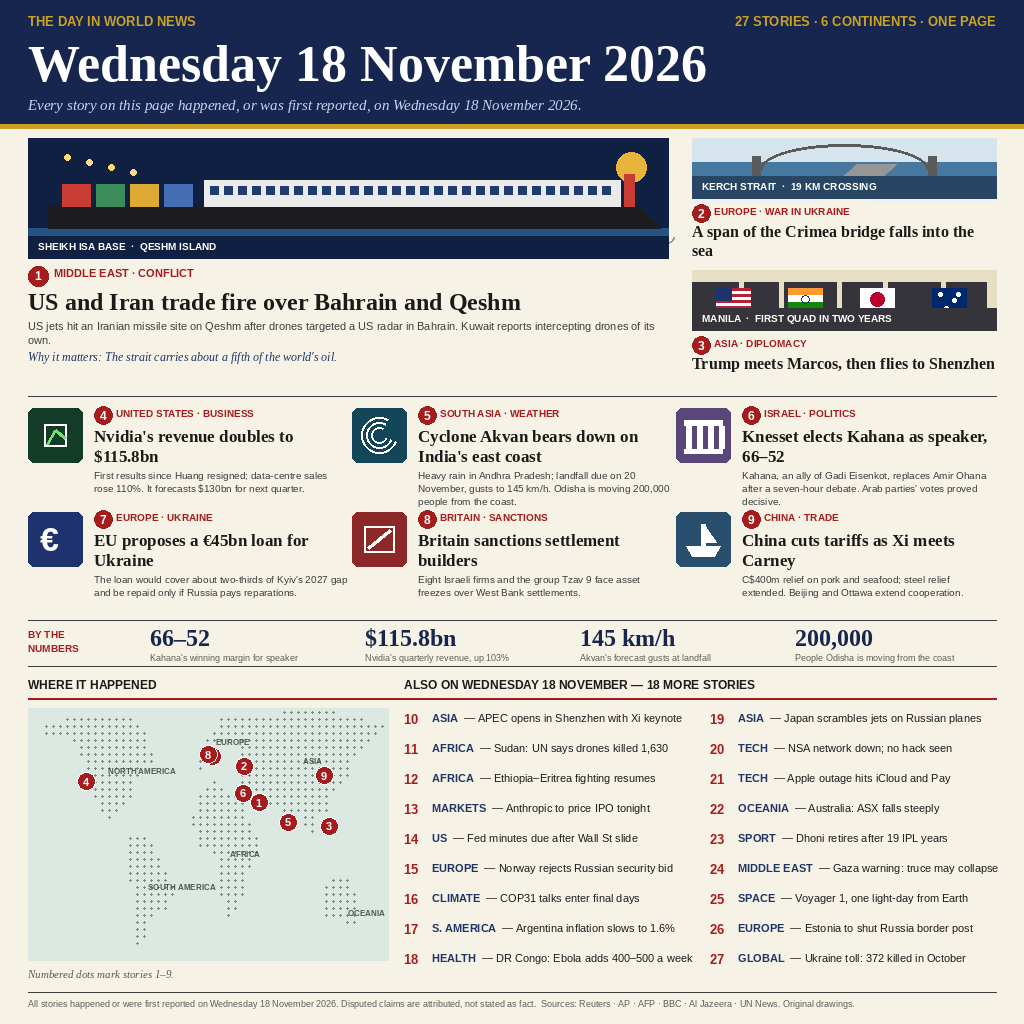
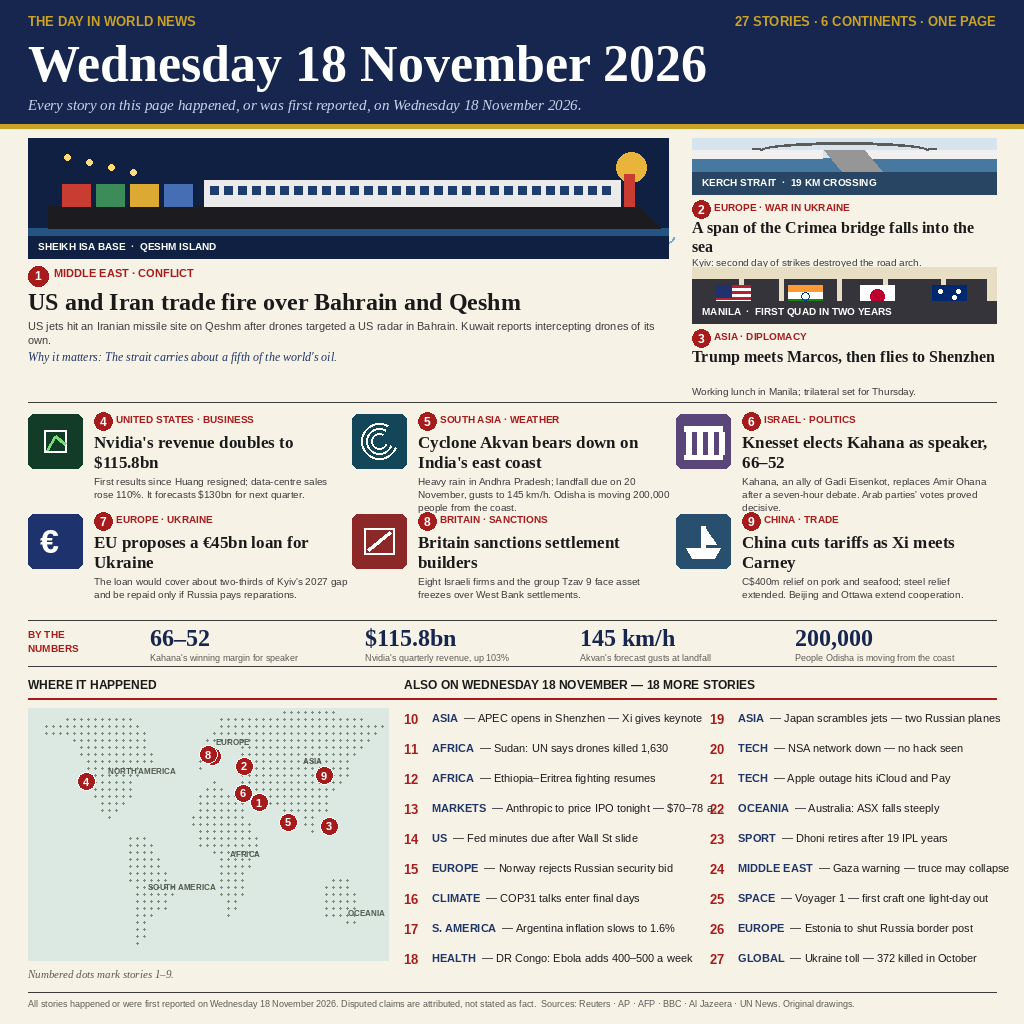
v4: restore right-hero decks, two-part briefs with facts

diff --git a/generate_frontpage.py b/generate_frontpage.py
@@ -71,14 +71,14 @@ def art_hormuz(d, x, y, w, h):
 def art_kerch(d, x, y, w, h):
     d.rectangle([x, y, x + w, y + h], fill=(214, 228, 238))
     d.rectangle([x, y + h - 36, x + w, y + h], fill=(70, 120, 160))
-    # bridge towers and deck, with a gap in the middle
-    d.rectangle([x + 60, y + 18, x + 68, y + 62], fill=(90, 90, 90))
-    d.rectangle([x + w - 68, y + 18, x + w - 60, y + 62], fill=(90, 90, 90))
-    d.rectangle([x, y + 56, x + w // 2 - 22, y + 64], fill=(240, 240, 240))
-    d.rectangle([x + w // 2 + 22, y + 56, x + w, y + 64], fill=(240, 240, 240))
-    d.arc([x + 68, y + 6, x + w - 68, y + 56], 180, 360, fill=(90, 90, 90), width=3)
+    # bridge towers and deck, with a gap in the middle (all heights relative to h)
+    d.rectangle([x + 60, y + 10, x + 68, y + h - 36], fill=(90, 90, 90))
+    d.rectangle([x + w - 68, y + 10, x + w - 60, y + h - 36], fill=(90, 90, 90))
+    d.rectangle([x, y + h - 44, x + w // 2 - 22, y + h - 36], fill=(240, 240, 240))
+    d.rectangle([x + w // 2 + 22, y + h - 44, x + w, y + h - 36], fill=(240, 240, 240))
+    d.arc([x + 68, y + 4, x + w - 68, y + h - 36], 180, 360, fill=(90, 90, 90), width=3)
     # fallen span, diagonal into the water
-    d.polygon([(x + w // 2 - 20, y + 56), (x + w // 2 + 20, y + 56), (x + w // 2 + 52, y + h - 34), (x + w // 2 + 12, y + h - 34)], fill=(150, 150, 150))
+    d.polygon([(x + w // 2 - 20, y + h - 44), (x + w // 2 + 20, y + h - 44), (x + w // 2 + 52, y + h - 6), (x + w // 2 + 12, y + h - 6)], fill=(150, 150, 150))
     d.rectangle([x, y + h - 22, x + w, y + h], fill=(40, 70, 100))
     d.text((x + 10, y + h - 18), "KERCH STRAIT  ·  19 KM CROSSING", font=SANS_B(10), fill=(255, 255, 255))
 
@@ -194,18 +194,25 @@ def main():
     if s.get("why"):
         d.text((28, y3 + 2), "Why it matters: " + s["why"], font=SERIF_I(12), fill=NAVY2)
     for i, s in enumerate(heroes[1:]):
-        x = 692; y = 138 + i * 132
+        x = 692; y = 138 + i * 129
         art = {"kerch": art_kerch, "quad": art_quad}[s["art"]]
-        art(d, x, y, 304, 60)
-        badge(d, x, y + 66, s["n"], r=9)
-        d.text((x + 22, y + 67), s["tag"], font=SANS_B(10), fill=RED)
-        draw_text(d, (x, y + 84), wrap(d, s["headline"], SERIF_B(16), 304), SERIF_B(16), INK, 19)
-    d.line([28, 396, W - 28, 396], fill=RULE, width=1)
+        art(d, x, y, 304, 56)
+        badge(d, x, y + 62, s["n"], r=9)
+        d.text((x + 22, y + 63), s["tag"], font=SANS_B(10), fill=RED)
+        draw_text(d, (x, y + 80), wrap(d, s["headline"], SERIF_B(16), 304), SERIF_B(16), INK, 19)
+        if s.get("deck1"):
+            dl = s["deck1"]
+            while d.textlength(dl, font=SANS(10)) > 304 and len(dl) > 12:
+                dl = dl[:-1]
+            if dl != s["deck1"]:
+                dl = dl.rstrip() + "…"
+            d.text((x, y + 118), dl, font=SANS(10), fill=(60, 60, 60))
+    d.line([28, 402, W - 28, 402], fill=RULE, width=1)
     # mid row: featured 4-9, 3 cols x 2 rows, icon left
     mid = data["featured"][3:]
     for i, s in enumerate(mid):
         col, row = i % 3, i // 3
-        x = cols[col]; y = 406 + row * 104
+        x = cols[col]; y = 412 + row * 100
         icon(d, x, y + 2, 54, s["art"])
         tx = x + 66; tw = cw - 66
         badge(d, tx, y, s["n"], r=9)
